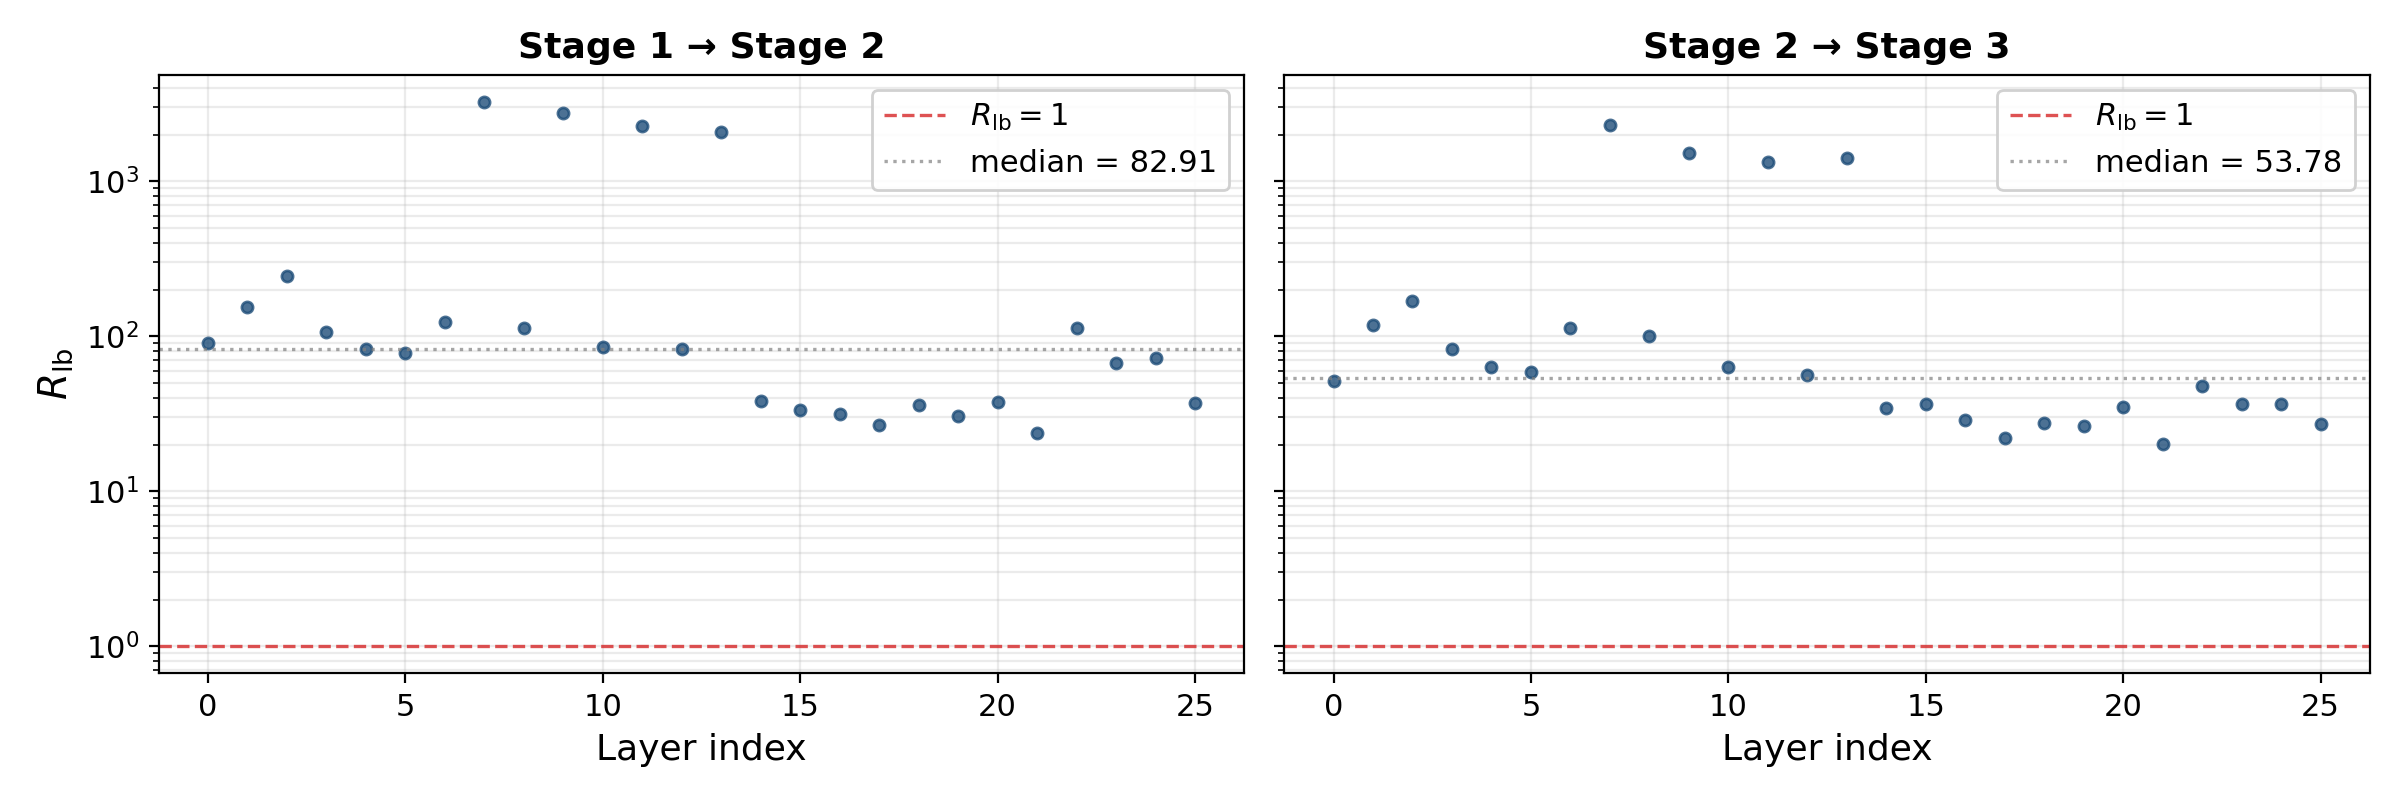
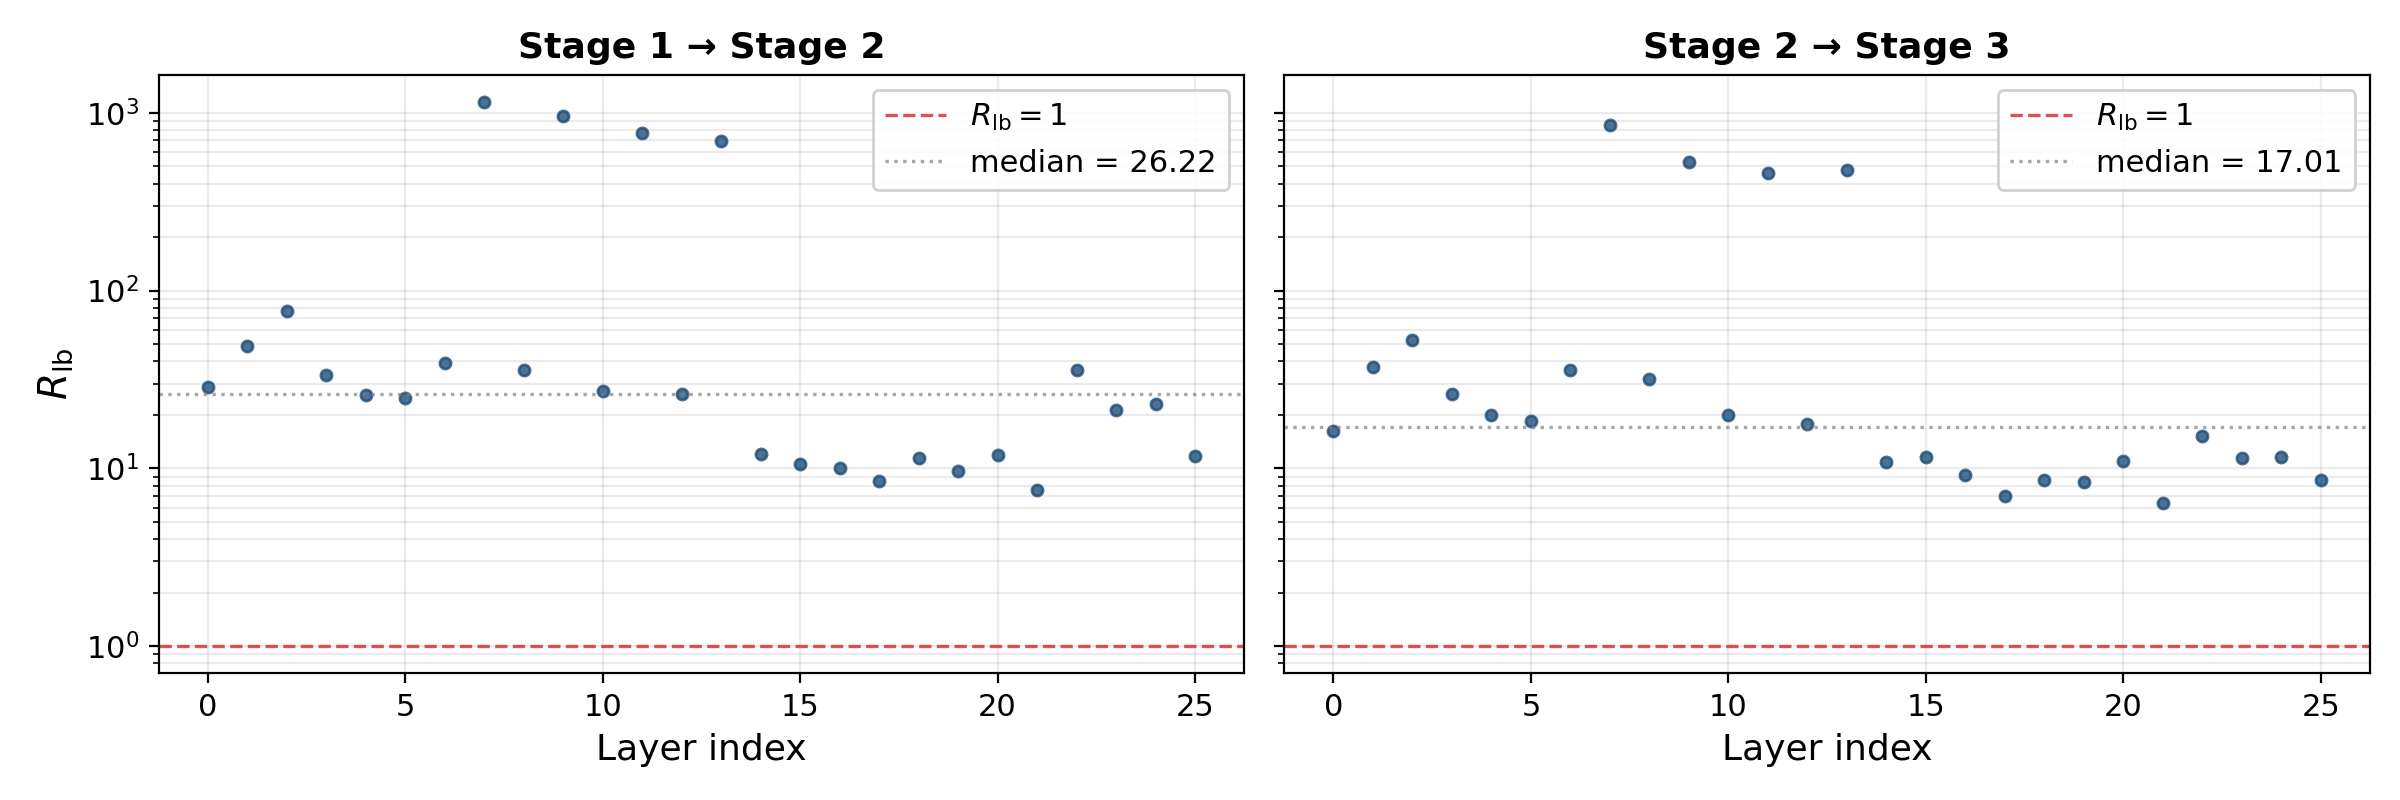
Burgers: use bias-corrected Adam step in R_lb diagnostics
With PyTorch's bias correction, the first update after an optimizer
reset is ~ lr*sign(g), so the previous R_lb overestimated the
reset/no-reset ratio by (1-beta1)/sqrt(1-beta2) ~ 3.16.

- train_model.py: corrected R_lb formula; stage_switch.csv is now
  written fresh at each run instead of appended; clarified comments on
  the scheduler in the no-reset setting
- plot_solution.py: recompute R_lb with the corrected formula, keep only
  the latest run from the CSV, axis labels consistent with the paper
- ablation_study/train_model_ablation.py: same scheduler comment fix
- figures/optimizer: regenerated Rlb_per_layer.png and check3_loglog.png

diff --git a/Burger/train_model.py b/Burger/train_model.py
@@ -236,14 +236,15 @@ class StageDiagnostics:
         os.makedirs(os.path.dirname(csv_path), exist_ok=True)
         self.csv_path = csv_path
         self._cache = None
-        if not os.path.exists(csv_path):
-            import csv
-            with open(csv_path, 'w', newline='') as f:
-                csv.writer(f).writerow([
-                    'stage_from', 'stage_to', 'layer',
-                    'beta1', 'beta2', 'lr', 'eps',
-                    'delta_median', 'sigma_median', 'gnew_median',
-                    'ratio_num', 'ratio_den', 'R_lb', 'timestamp'])
+        # Always start a fresh file: appending would mix rows from previous
+        # runs in the same folder (duplicated layers in the R_lb plot).
+        import csv
+        with open(csv_path, 'w', newline='') as f:
+            csv.writer(f).writerow([
+                'stage_from', 'stage_to', 'layer',
+                'beta1', 'beta2', 'lr', 'eps',
+                'delta_median', 'sigma_median', 'gnew_median',
+                'ratio_num', 'ratio_den', 'R_lb', 'timestamp'])
 
     @staticmethod
     def _bias_correct(state, beta1, beta2, step):
@@ -282,8 +283,9 @@ class StageDiagnostics:
             sigma   = self._cache[name]['sigma_median']
             r_num   = (beta1 * delta) / ((1.0 - beta1) * (g_med + 1e-12))
             r_den   = (math.sqrt(1.0 - beta2) * g_med) / (math.sqrt(beta2) * (sigma + 1e-12))
-            denom   = math.sqrt(1.0 - beta2) * ((1.0 - beta1) * g_med + beta1 * delta) + 1e-12
-            R_lb    = (math.sqrt(beta2) * sigma * (1.0 - beta1)) / denom
+            # bias-corrected Adam: first step after reset ~ lr*sign(g)
+            denom   = (1.0 - beta1) * g_med + beta1 * delta + 1e-12
+            R_lb    = (math.sqrt(beta2) * sigma) / denom
             rows.append([stage_from, stage_to, name, beta1, beta2, lr, eps,
                          delta, sigma, g_med, r_num, r_den, R_lb, time.time()])
         with open(self.csv_path, 'a', newline='') as f:
@@ -337,7 +339,7 @@ def build_phases(training, model_type, epochs, ss_epochs, sup_epochs):
              'λ_sup': 0.5, 'λ_res': 1.5, **lam_reg},
         ]
         reset_optimizer = False
-        reset_scheduler = True   # LR resets to lr at each phase, moments do not
+        reset_scheduler = True   # StepLR is recreated, but it keeps the current (decayed) lr
 
     elif training == 'singlestage':
         # mirrors burger_phisfno_ss.py
@@ -539,7 +541,9 @@ if __name__ == '__main__':
             scheduler = torch.optim.lr_scheduler.StepLR(
                 optimizer, step_size=params.sched_step, gamma=params.sched_gamma)
         elif reset_scheduler:
-            # multistage_nr: keep Adam moments, but reset LR schedule
+            # multistage_nr: keep Adam moments. Recreating StepLR does not restore
+            # params.lr (it starts from the current group lr), so the lr keeps
+            # decaying across phases; restoring it was tested and made no difference.
             scheduler = torch.optim.lr_scheduler.StepLR(
                 optimizer, step_size=params.sched_step, gamma=params.sched_gamma)
 

diff --git a/Burger/plot_solution.py b/Burger/plot_solution.py
@@ -712,16 +712,24 @@ else:
 _sw_csv = os.path.join(_swdiag_loss_dir, 'stage_switch.csv')
 if os.path.isfile(_sw_csv):
     df_sw = pd.read_csv(_sw_csv)
+    # CSV scritti in append da run successive: tieni solo l'ultima run
+    # (un punto per tensore di parametri per transizione).
+    df_sw = (df_sw.sort_values('timestamp')
+                  .drop_duplicates(subset=['stage_from', 'stage_to', 'layer'], keep='last')
+                  .sort_index()
+                  .reset_index(drop=True))
 
-    # calcola R_lb se non già presente
+    # ricalcola R_lb (il CSV di run vecchie contiene la formula senza bias correction).
+    # Con la bias correction di Adam il primo passo dopo il reset è ~ eta*sign(g),
+    # quindi R_lb = sqrt(beta2)*sigma / ((1-beta1)*|g| + beta1*delta),
+    # con delta = median|m_hat|, sigma = median sqrt(v_hat) (bias-corrected).
     eps = 1e-12
     beta1 = df_sw['beta1'].to_numpy()
     beta2 = df_sw['beta2'].to_numpy()
     g     = np.abs(df_sw['gnew_median'].to_numpy())
     delta = df_sw['delta_median'].to_numpy()
     sigma = df_sw['sigma_median'].to_numpy()
-    R_lb  = (np.sqrt(beta2) * sigma * (1.0 - beta1)) / (
-             np.sqrt(1.0 - beta2) * ((1.0 - beta1) * g + beta1 * delta) + eps)
+    R_lb  = (np.sqrt(beta2) * sigma) / ((1.0 - beta1) * g + beta1 * delta + eps)
 
     # raccogli transizioni in ordine naturale
     pairs = []
@@ -775,8 +783,8 @@ if os.path.isfile(_sw_csv):
     _lims = [min(ax_c3.get_xlim()[0], ax_c3.get_ylim()[0]),
              max(ax_c3.get_xlim()[1], ax_c3.get_ylim()[1])]
     ax_c3.plot(_lims, _lims, 'k--', lw=0.9, alpha=0.5, label='y = x')
-    ax_c3.set_xlabel(r'$\beta_2\,\widehat{v}_{t-1}$', fontsize=14)
-    ax_c3.set_ylabel(r'$(1-\beta_2)\,\|g_t\|^2$', fontsize=14)
+    ax_c3.set_xlabel(r'$\beta_2\,\bar{s}_\ell^{\,2}$', fontsize=14)
+    ax_c3.set_ylabel(r'$(1-\beta_2)\,\bar{g}_\ell^{\,2}$', fontsize=14)
     ax_c3.tick_params(labelsize=12)
     ax_c3.legend(fontsize=12, framealpha=0.9)
     ax_c3.grid(True, which='both', alpha=0.25)

diff --git a/Burger/ablation_study/train_model_ablation.py b/Burger/ablation_study/train_model_ablation.py
@@ -181,7 +181,9 @@ def run_training(cfg, training, device,
             optimizer = torch.optim.Adam(model.parameters(), lr=LR, weight_decay=1e-4)
             scheduler = torch.optim.lr_scheduler.StepLR(optimizer, SCHED_STEP, SCHED_GAMMA)
         else:
-            # multistage_nr: keep Adam moments, reset only LR schedule
+            # multistage_nr: keep Adam moments. Recreating StepLR does not restore
+            # LR (it starts from the current group lr), so the lr keeps decaying
+            # across phases; restoring it was tested and made no difference.
             scheduler = torch.optim.lr_scheduler.StepLR(optimizer, SCHED_STEP, SCHED_GAMMA)
 
         bd_hist, res_hist, test_hist = [], [], []
